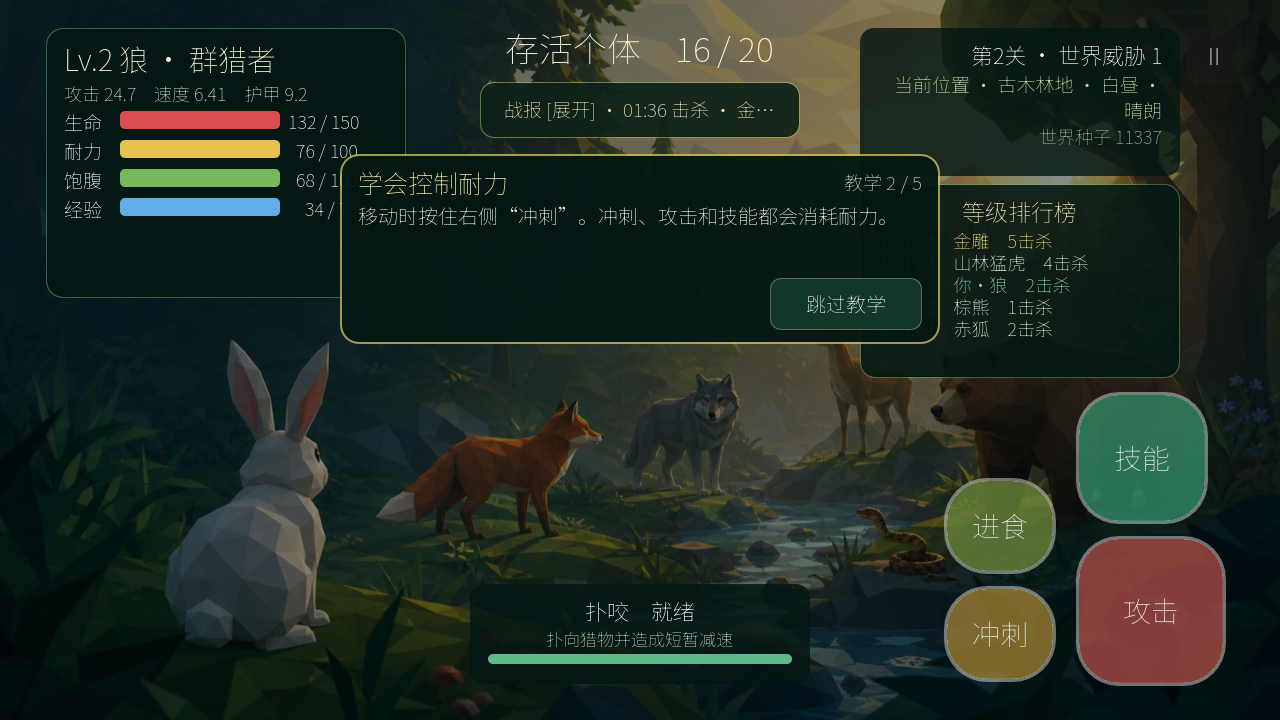
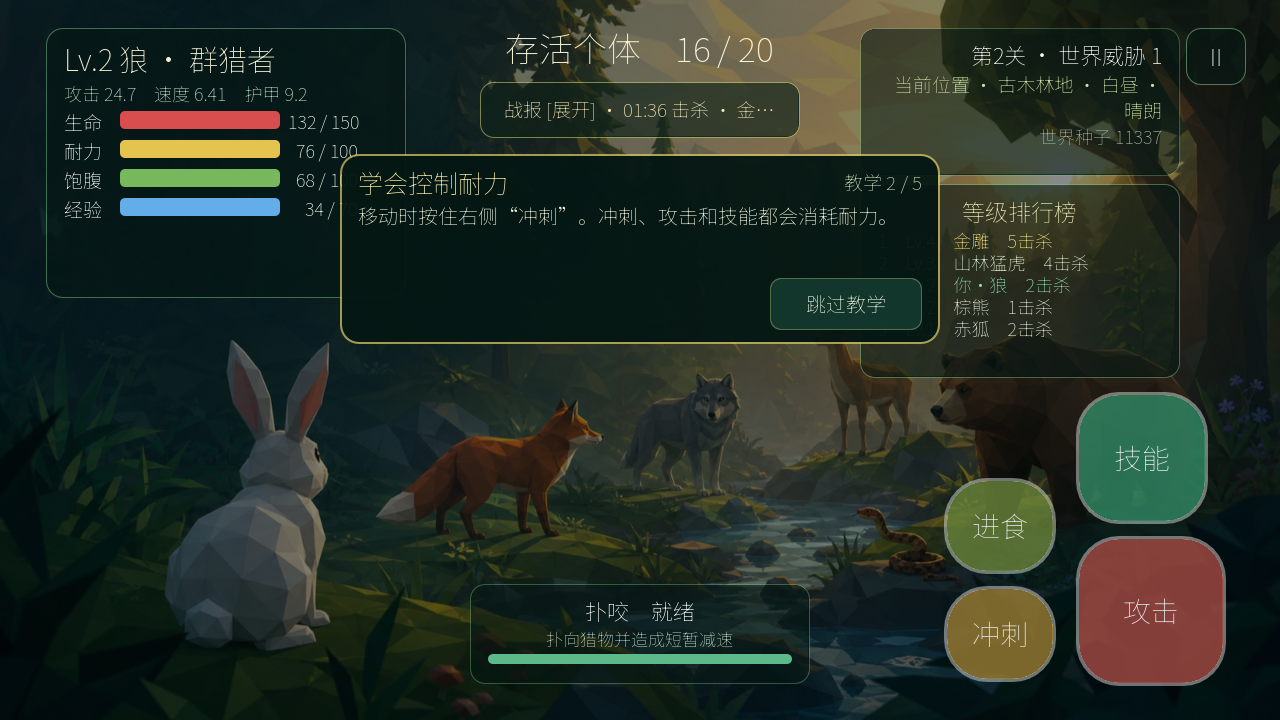
style: make gameplay HUD more transparent

Changed region(s): [[0.6562, 0.0306, 0.9375, 0.5194], [0.4688, 0.0917, 0.625, 0.2139], [0.9375, 0.0611, 0.9688, 0.0917]]

diff --git a/README.md b/README.md
@@ -68,6 +68,7 @@
 - 手机 Web 竖屏时显示全屏旋转提示并暂停生态模拟，恢复横屏后自动继续。
 - 手机 HUD、战况和弹窗使用更大的字号；暂停和教学按钮达到至少 52 逻辑像素的可点高度。
 - 右侧攻击、技能、进食和冲刺重新排成两列，物种攻略、教学与中下方技能信息不再遮挡触控按钮。
+- 玩家状态、关卡信息、排行榜、战报和技能栏采用半透明底板与清晰描边，减少对地图和猎物视野的遮挡。
 
 ## V1.4 AI 美术重制
 
